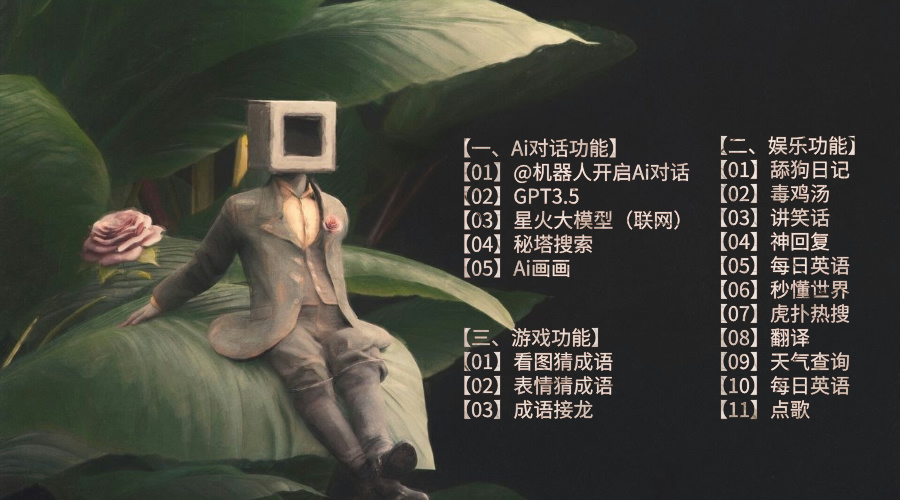
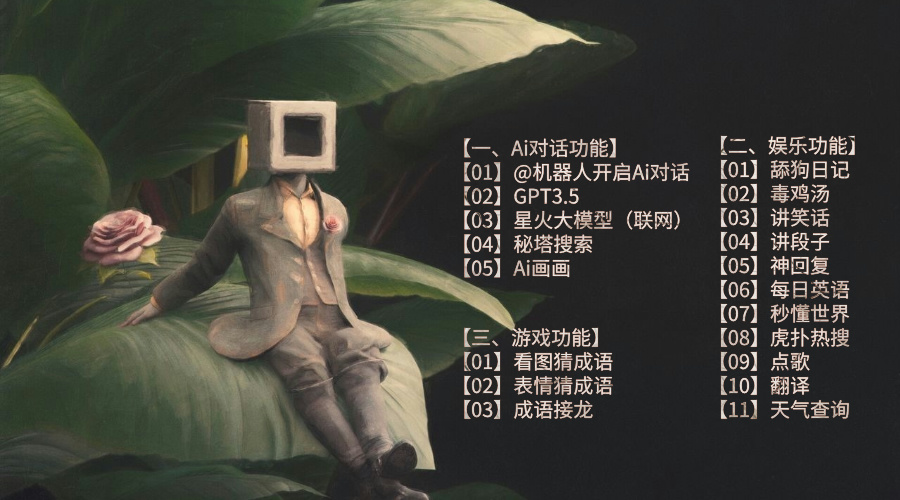
增加段子api

Changed region(s): [[0.84, 0.45, 0.9644, 0.84]]

diff --git a/Recv_Msg_Dispose/Room_Msg_Dispose.py b/Recv_Msg_Dispose/Room_Msg_Dispose.py
@@ -389,6 +389,14 @@ class Room_Msg_Dispose:
                 self.wcf.send_image(path=save_path, receiver=msg.roomid)
             else:
                 self.wcf.send_text(msg='摸鱼日记接口出错, 错误信息请查看日志 ~~~~~~', receiver=msg.roomid)
+        # 内涵段子
+        elif self.judge_keyword(keyword=["内涵段子", "段子", "讲段子"], msg=msg.content.strip(), list_bool=True,
+                                equal_bool=True):
+            save_path = self.Ams.get_duanzi()
+            ret = f'[*]: 内涵段子API接口返回值：{save_path}'
+            OutPut.outPut(ret)
+            if save_path:
+                self.wcf.send_image(path=save_path, receiver=msg.roomid)
         # 点歌功能
         elif self.judge_keyword(keyword=["点歌", "听歌"], msg=msg.content.strip(), list_bool=True, split_bool=True):
             music_name = msg.content.strip().split(' ', 1)[1].strip()
@@ -946,14 +954,14 @@ class Room_Msg_Dispose:
         #            f"【2.1】、舔狗日记\n" \
         #            f"【2.2】、毒鸡汤\n" \
         #            f"【2.3】、讲笑话\n" \
-        #            f"【2.4】、神回复\n" \
-        #            f"【2.5】、每日英语\n" \
-        #            f"【2.6】、秒懂世界\n" \
-        #            f"【2.7】、虎扑热搜\n" \
-        #            f"【2.8】、翻译\n" \
-        #            f"【2.9】、天气查询\n" \
-        #            f"【2.10】、每日英语\n" \
-        #            f"【2.11】、点歌\n" \
+        #            f"【2.4】、讲段子\n" \
+        #            f"【2.5】、神回复\n" \
+        #            f"【2.6】、每日英语\n" \
+        #            f"【2.7】、秒懂世界\n" \
+        #            f"【2.8】、虎扑热搜\n" \
+        #            f"【2.9】、点歌\n" \
+        #            f"【2.10】、翻译\n" \
+        #            f"【2.11】、天气查询\n" \
         #            f"【三、游戏功能】\n" \
         #            f"【3.1】、看图猜成语\n" \
         #            f"【3.2】、表情猜成语\n" \

diff --git a/Api_Server/Api_Main_Server.py b/Api_Server/Api_Main_Server.py
@@ -776,6 +776,26 @@ class Api_Main_Server:
         OutPut.outPut(f'[+]: 摸鱼日记API接口调用成功！！！')
         return save_path
 
+    # 内涵段子
+    def get_duanzi(self):
+        OutPut.outPut(f'[*]: 正在调用内涵段子接口... ...')
+        try:
+            url = "https://dayu.qqsuu.cn/neihanduanzi/apis.php?type=json"
+            res = requests.get(url=url, timeout=30, verify=False)
+            json_data = res.json()
+            url_pic = json_data['data']
+
+            pic_data = requests.get(url=url_pic, headers=self.headers, timeout=30, verify=False).content
+            save_path = self.Cache_path + '/Pic_Cache/' + str(int(time.time() * 1000)) + '.png'
+            with open(file=save_path, mode='wb') as pd:
+                pd.write(pic_data)
+        except Exception as e:
+            msg = f'[-]: 内涵段子API接口出现错误，错误信息：{e}'
+            OutPut.outPut(msg)
+            return None
+        OutPut.outPut(f'[+]: 内涵段子API接口调用成功！！！')
+        return save_path
+
     # Whois查询
     def get_whois(self, content):
         OutPut.outPut('[*]: 正在调用Whois查询API接口... ...')
@@ -1061,4 +1081,4 @@ if __name__ == '__main__':
     # print(Ams.get_whois('whois查询 qq.com'))
     # print(Ams.get_attribution('归属查询 121264'))
     # print(Ams.get_icp('备案查询 qzzz2131231q.com'))
-    print(Ams.get_translate("你好"))
+    print(Ams.get_duanzi())
